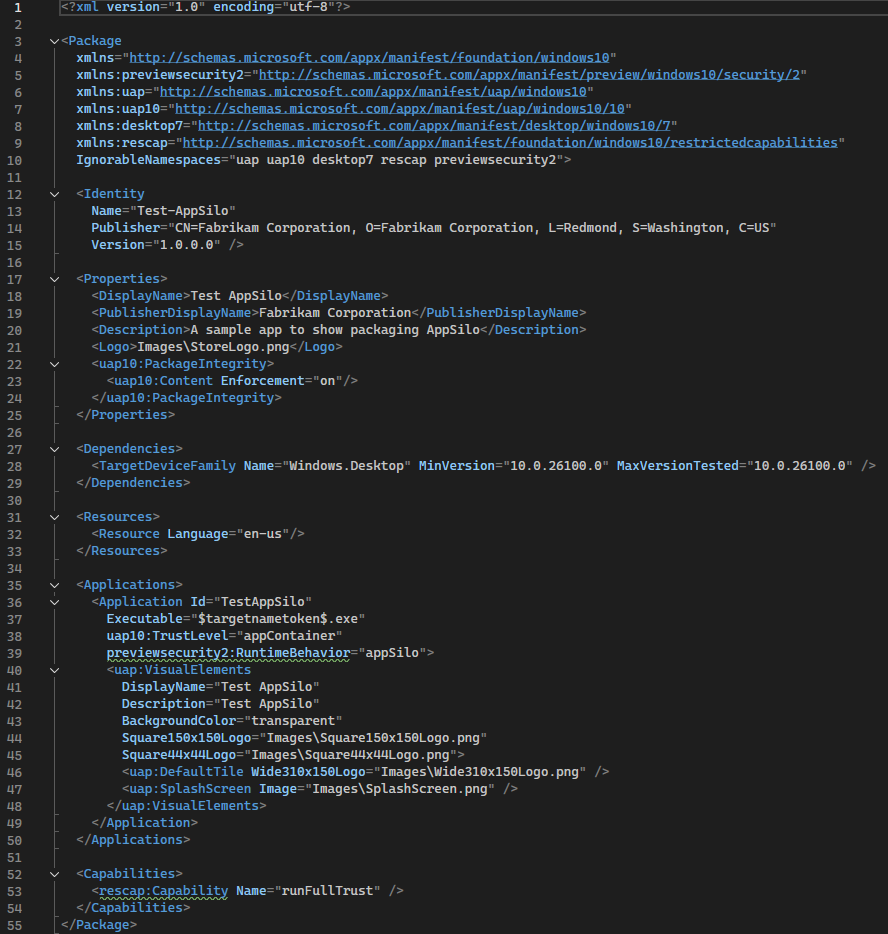
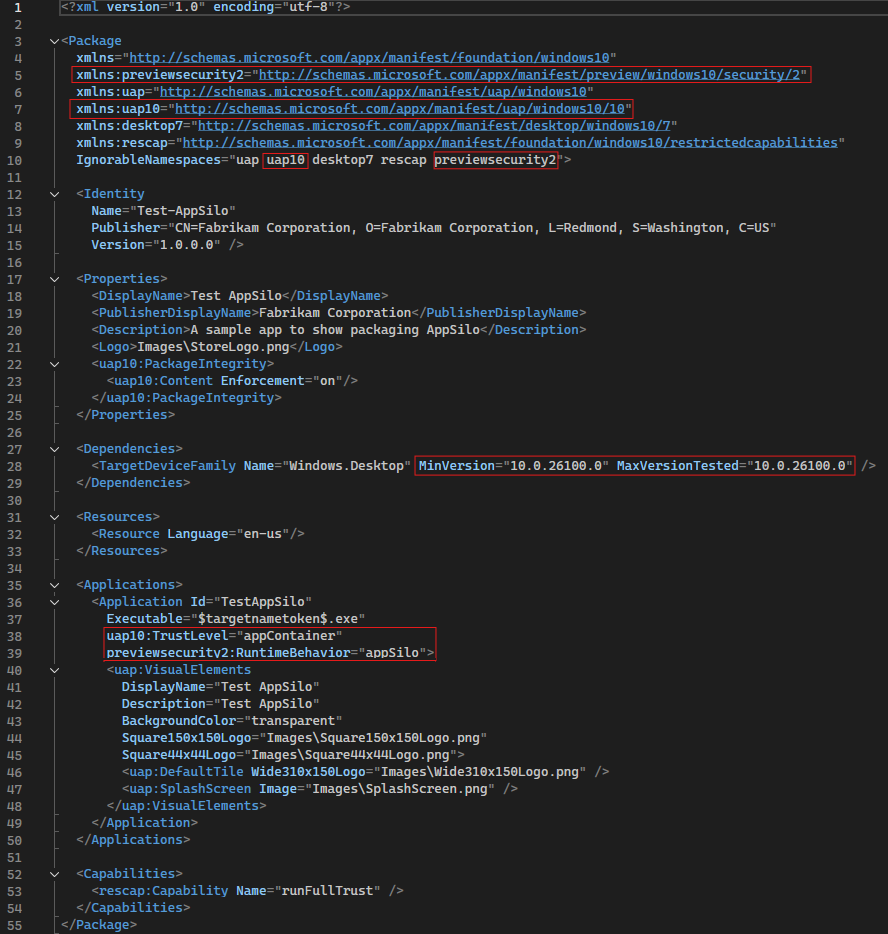
Updating docs based on PR feedback

Changed region(s): [[0.4865, 0.1552, 0.6385, 0.1863]]

diff --git a/docs/packaging/packaging-with-visual-studio.md b/docs/packaging/packaging-with-visual-studio.md
@@ -6,11 +6,11 @@ This page will cover everything needed to package an application into an isolate
 
 ## Step 1 - Install the required workloads in Visual Studio including Windows 11 SDK 10.0.26100.0 (or greater)
 Open the Visual Studio Installer and Modify the existing installation. 
-On the Workloads tab check the "Windows application development" box for development in C# 
-(and optionally check the "C++ WinUI app development tools" box for development in C++). 
-The Windows 11 SDK 10.0.26100.0 (or greater) is also required.
+On the Workloads tab check the *Windows application development* box
+(and optionally check the *C++ WinUI app development tools* box for development in C++). 
+The *Windows 11 SDK 10.0.26100.0* (or greater) is also required.
 
-![image](images/vs/01-VisualStudio-Required-Workloads.png)
+<img src="images/vs/01-VisualStudio-Required-Workloads.png" alt="image" height="600"/>
 
 ## Step 2 - Create your app project
 In Visual Studio, create a new C# or C++ project using the template *Blank App, 
@@ -18,17 +18,21 @@ Packaged with Windows Application Packaging Project (WinUI 3 in Desktop)*.
 Click "Create" and then select "10.0.26100.0" (or later) for Target Platform Version (TPV) 
 and Target Platform Minimum Version (TPMinV). 
 
-![image](images/vs/02-Blank-App-Packaged-With-Windows-Application-Packaging-Project.png)
-![image](images/vs/03-New-Project.png)
-![image](images/vs/04-New-Windows-Project.png)
+<img src="images/vs/02-Blank-App-Packaged-With-Windows-Application-Packaging-Project.png" alt="image" height="150"/>
+
+<img src="images/vs/03-New-Project.png" alt="image" height="500"/>
+
+<img src="images/vs/04-New-Windows-Project.png" alt="image" height="150"/>
 
 ## Step 3 - Set NuGet to use Microsoft.Windows.SDK.BuildTools version 10.0.26100.1 or later
-Go to Project -> "Manage NuGet Packages" to install Microsoft.Windows.SDK.BuildTools 
+Go to *Project -> Manage NuGet Packages* to install Microsoft.Windows.SDK.BuildTools 
 version 10.0.26100.1 (or later).
 
-![image](images/vs/05-Manage-NuGet-Packages.png)
-![image](images/vs/06-Microsoft-Windows-SDK-BuildTools.png)
-![image](images/vs/07-SDK-BuildTools-Info.png)
+<img src="images/vs/05-Manage-NuGet-Packages.png" alt="image" height="400"/>
+
+<img src="images/vs/06-Microsoft-Windows-SDK-BuildTools.png" alt="image" height="150"/>
+
+<img src="images/vs/07-SDK-BuildTools-Info.png" alt="image" height="400"/>
 
 ## Step 4 - Edit the Packaging.appxmanifest file
 In the manifest file, the following changes will need to be made:
@@ -46,7 +50,7 @@ if it's not there already.
 	* Add `uap10` to `IgnorableNamespaces` at the end of the `<Package>` element.
 
 * In `<Dependencies>` change `TargetDeviceFamily` to
-`<TargetDeviceFamily Name="Windows.Desktop" MinVersion="10.0.25357.0" MaxVersionTested="10.0.25357.0" />`.
+`<TargetDeviceFamily Name="Windows.Desktop" MinVersion="10.0.26100.0" MaxVersionTested="10.0.26100.0" />`.
 
 	* **Note**: Not all features are available in the minimum build, check out the [release notes](../../relnotes/windows-release-notes.md) for more detailed information.
 
@@ -62,20 +66,19 @@ if it's not there already.
 the app has other manifested extensions which can affect the user global state, such as
 `comServer` or `FirewallRules`, since those require the `runFullTrust` capability.
 
-![image](images/vs/09-PackagingAppx-File.png)
+<img src="images/vs/09-PackagingAppx-File.png" alt="image" height="800"/>
 
 ## Step 5 - Build and Publish App Packages
 Build the Visual Studio solution. 
 
-![image](images/vs/10-Build-Solution.png)
+<img src="images/vs/10-Build-Solution.png" alt="image" height="100"/>
 
 Publish the App Package by using the "Create App Packages..." wizard.
 
-![image](images/vs/11-Create-App-Packages.png)
-![image](images/vs/12-Create-App-Packages-Create.png)
-![image](images/vs/13-Create-App-Packages-Success.png)
+<img src="images/vs/11-Create-App-Packages.png" alt="image" height="200"/>
 
-## Step 6 - Install App
-Use Run the Install.ps1 with PowerShell to install the App.
+<img src="images/vs/12-Create-App-Packages-Create.png" alt="image" height="500"/>
 
-![image](images/vs/14-Install-App-Package.png)
+After publishing the App Packages, the *Output location* displayed shows the root directory where the MSIX package is published by version. Open on the version folder to find the Install.ps1 file.
+
+<img src="images/vs/13-Create-App-Packages-Success.png" alt="image" height="500"/>

diff --git a/docs/README.md b/docs/README.md
@@ -13,7 +13,13 @@
 
 ### Creating a Win32 App Isolation App:
 
-1. Create an MSIX package from Win32 installer *if the app is not already MSIX* ([step 1](packaging/msix-packaging-tool.md#win32---msix))
-2. Turn the MSIX Package to isolated Win32 app ([step 2](packaging/msix-packaging-tool.md#msix---isolated-win32))
-3. Identify the required capabilities using [ACP](profiler/application-capability-profiler.md)
-4. Repackage the app with the capabilities just found
+There are two mechanisms for creating and converting an MSIX package to be ready to use app silo. One option is to use the MSIX packaging tool. The other option is to use Visual Studio.
+
+1. Create and convert an MSIX package to be ready to use AppSilo. 
+   * Using MSIX packaing tool
+     1. Create an MSIX package from Win32 installer *if the app is not already MSIX* ([step 1](packaging/msix-packaging-tool.md#win32---msix))
+     2. Turn the MSIX Package to isolated Win32 app ([step 2](packaging/msix-packaging-tool.md#msix---isolated-win32))
+
+   * Using Visual Studio ([step 1](packaging/packaging-with-visual-studio.md))
+2. Identify the required capabilities using [ACP](profiler/application-capability-profiler.md)
+3. Repackage the app with the capabilities just found
